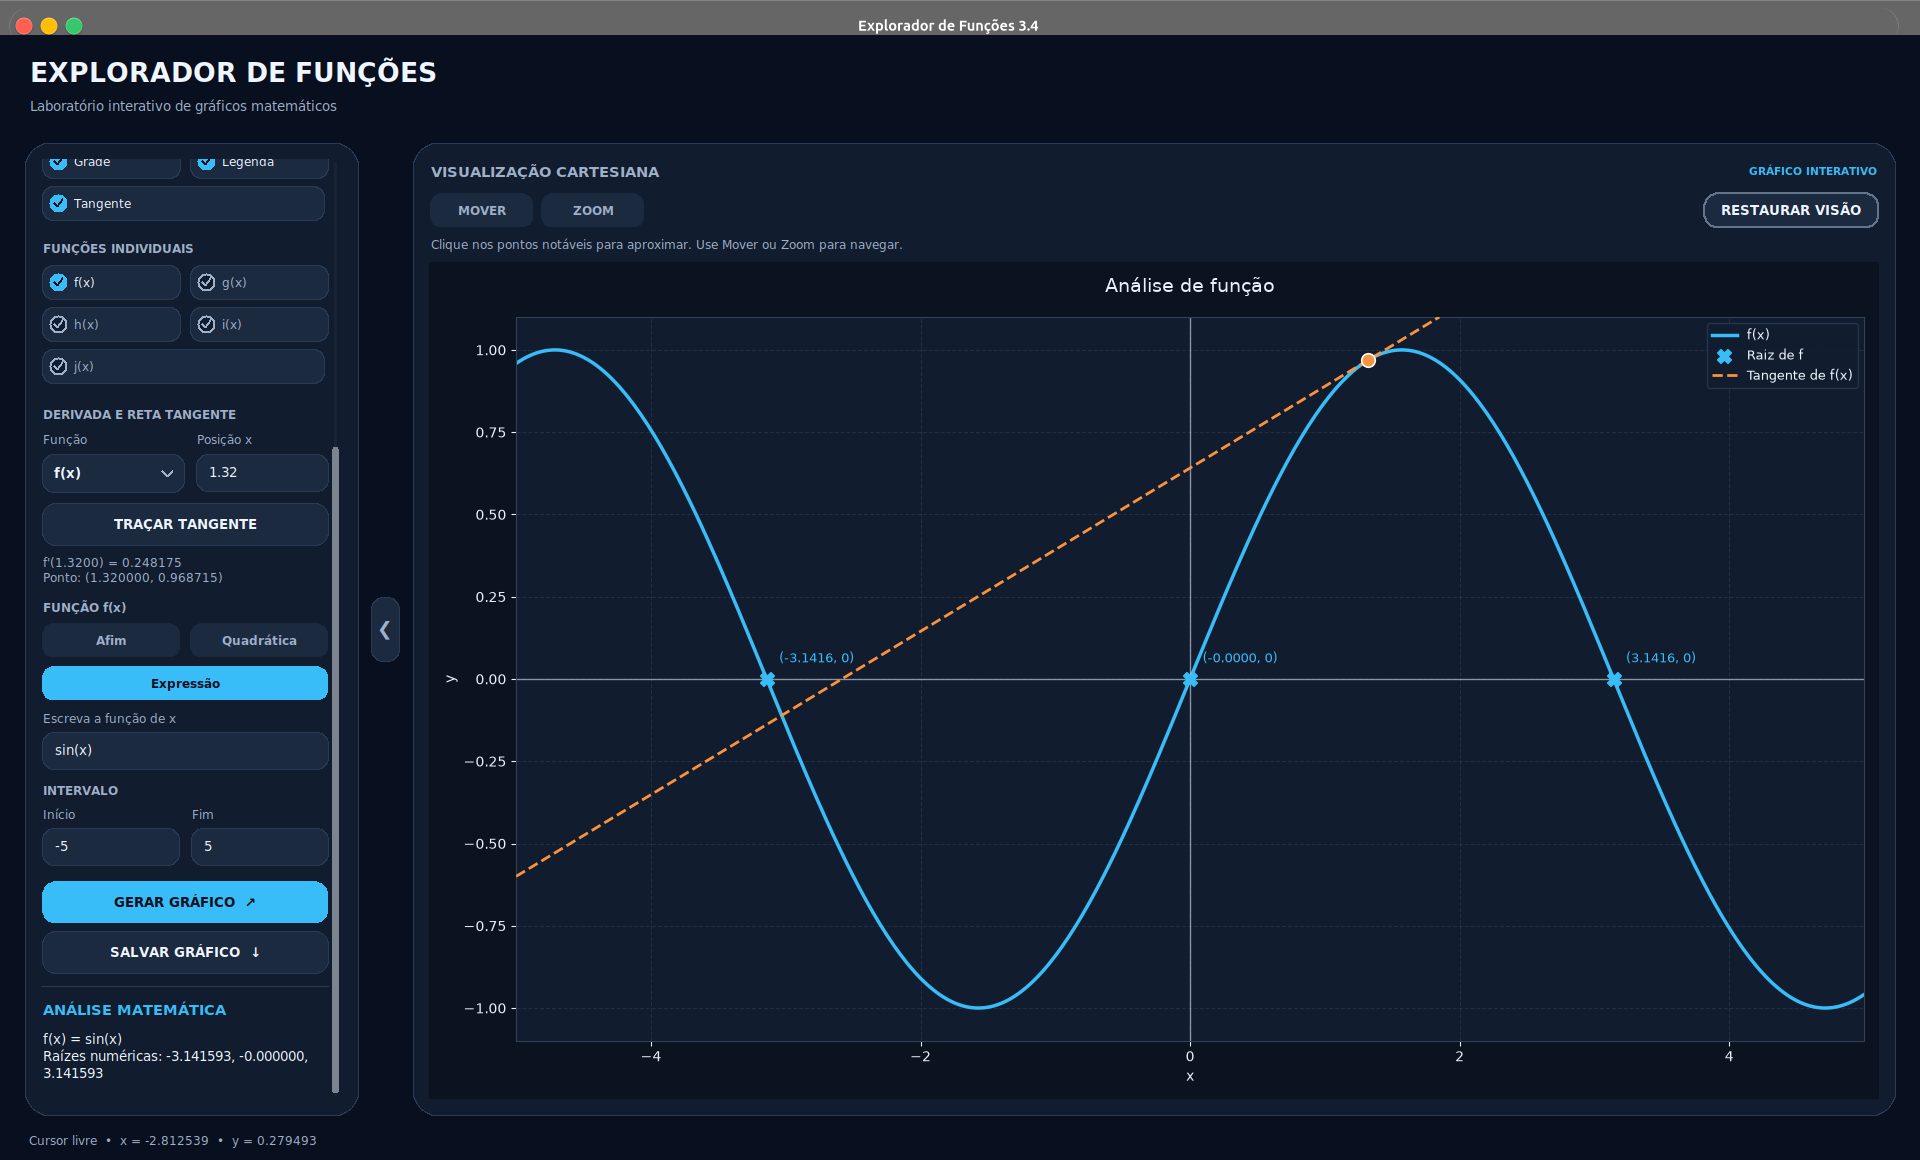
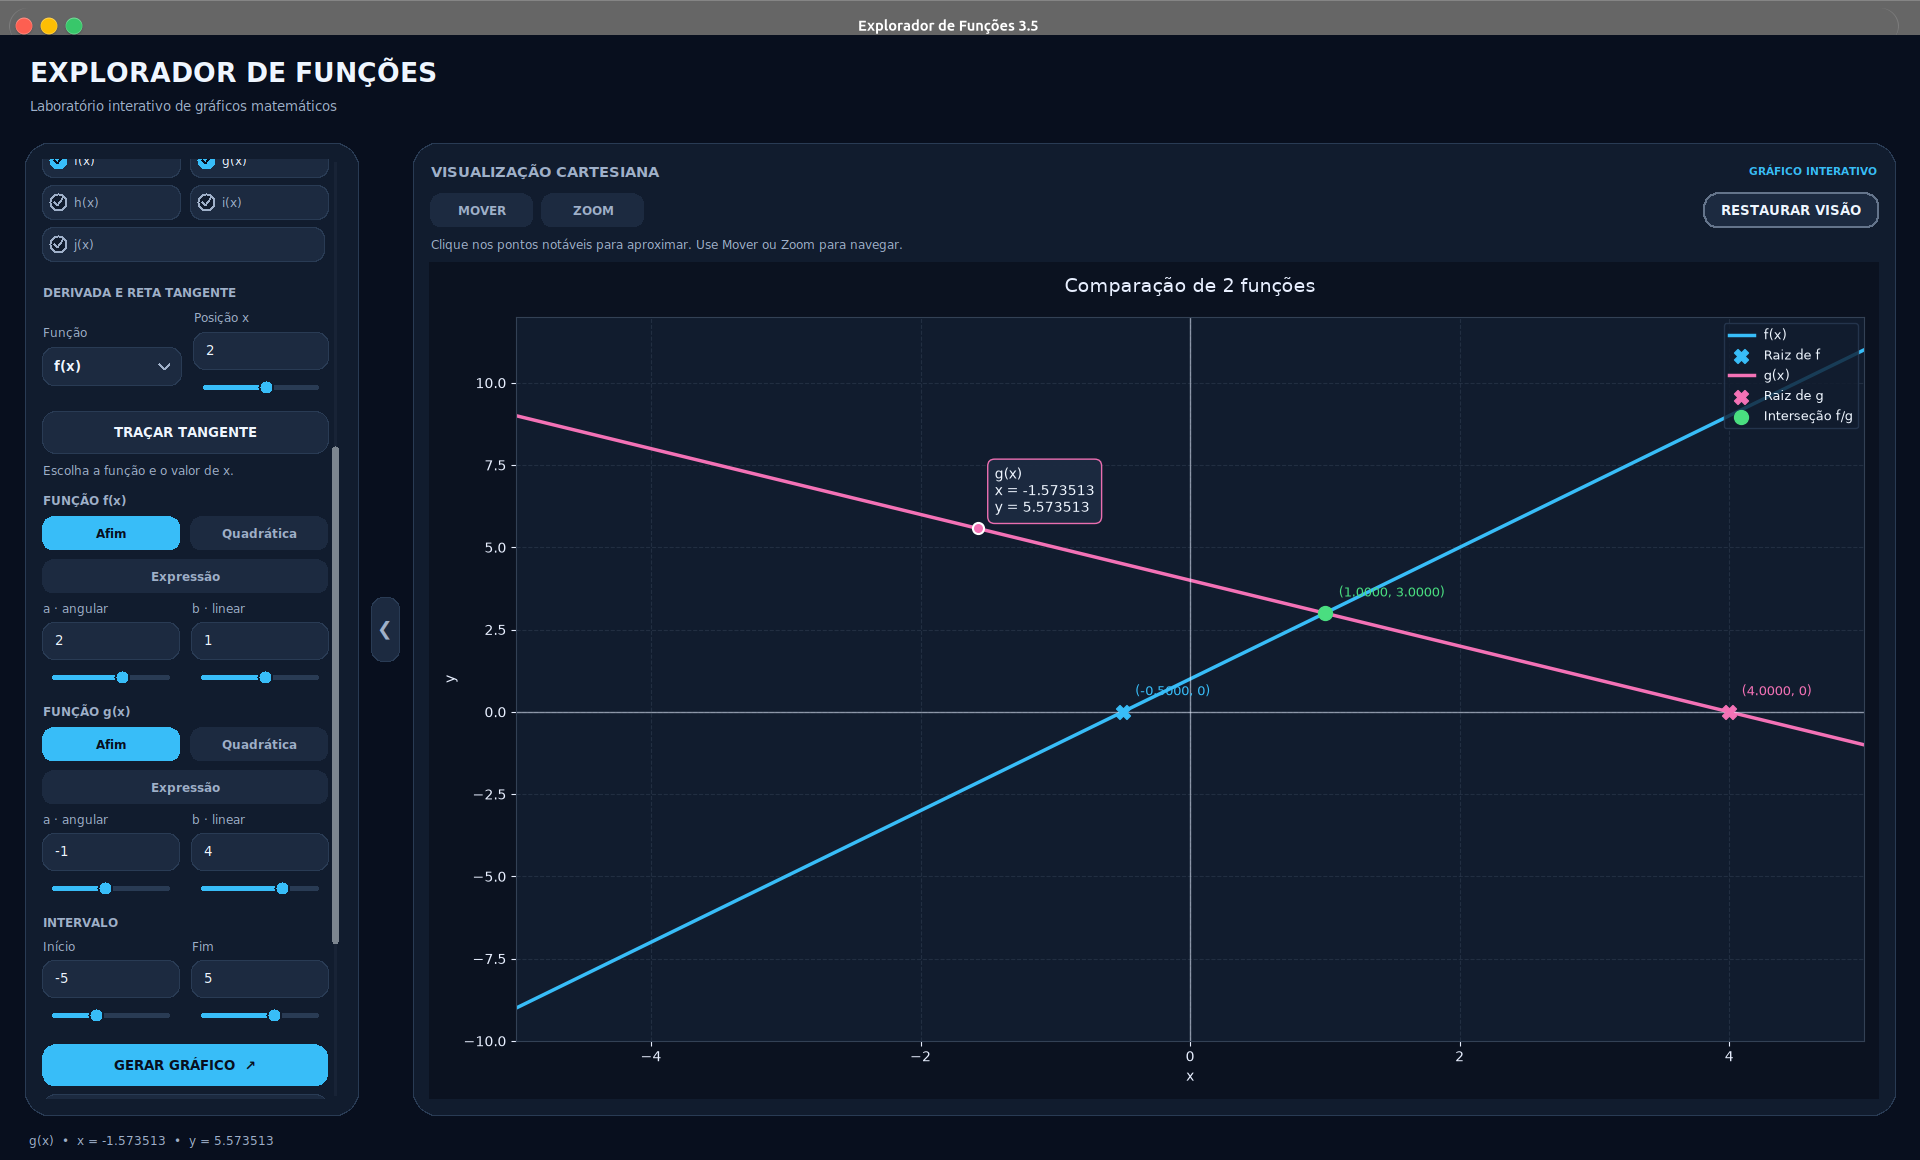
feat: adiciona sliders aos parametros

diff --git a/explorador-funcoes/interface.py b/explorador-funcoes/interface.py
@@ -124,8 +124,81 @@ class CampoArredondado(tk.Canvas):
     def get(self):
         return self.entrada.get()
 
+    def set(self, valor):
+        self.entrada.delete(0, "end")
+        self.entrada.insert(0, str(valor))
+
     def bind_enter(self, comando):
         self.entrada.bind("<Return>", lambda _evento: comando())
+
+
+class SliderArredondado(tk.Canvas):
+    def __init__(self, parent, valor, minimo, maximo, passo, comando):
+        super().__init__(
+            parent, height=28, width=110, bg=PAINEL,
+            highlightthickness=0, bd=0, cursor="hand2", takefocus=True,
+        )
+        self.valor = float(valor)
+        self.minimo = float(minimo)
+        self.maximo = float(maximo)
+        self.passo = float(passo)
+        self.comando = comando
+        self.bind("<Configure>", self.redesenhar)
+        self.bind("<Button-1>", self.arrastar)
+        self.bind("<B1-Motion>", self.arrastar)
+        self.bind("<Left>", lambda _evento: self.mover_passo(-1))
+        self.bind("<Right>", lambda _evento: self.mover_passo(1))
+        self.bind("<Home>", lambda _evento: self.definir(self.minimo, True))
+        self.bind("<End>", lambda _evento: self.definir(self.maximo, True))
+
+    def redesenhar(self, _evento=None):
+        self.delete("all")
+        largura = self.winfo_width()
+        if largura < 34:
+            return
+        esquerda, direita, centro = 13, largura - 13, 14
+        fracao = (self.valor - self.minimo) / (self.maximo - self.minimo)
+        x = esquerda + (direita - esquerda) * fracao
+        self.create_line(
+            esquerda, centro, direita, centro,
+            fill=BORDA, width=5, capstyle="round",
+        )
+        self.create_line(
+            esquerda, centro, x, centro,
+            fill=DESTAQUE, width=5, capstyle="round",
+        )
+        self.create_oval(
+            x - 7, centro - 7, x + 7, centro + 7,
+            fill=DESTAQUE, outline=PAINEL, width=2,
+        )
+
+    def definir(self, valor, notificar=False):
+        if not math.isfinite(float(valor)):
+            return
+        if valor < self.minimo or valor > self.maximo:
+            folga = max(1.0, abs(float(valor)))
+            self.minimo = min(self.minimo, -math.ceil(folga * 1.2))
+            self.maximo = max(self.maximo, math.ceil(folga * 1.2))
+        novo = max(self.minimo, min(self.maximo, round(float(valor) / self.passo) * self.passo))
+        novo = round(novo, 8)
+        if novo == self.valor:
+            return
+        self.valor = novo
+        self.redesenhar()
+        if notificar:
+            self.comando(novo)
+
+    def arrastar(self, evento):
+        self.focus_set()
+        largura = self.winfo_width()
+        if largura <= 26:
+            return
+        proporcao = max(0.0, min(1.0, (evento.x - 13) / (largura - 26)))
+        self.definir(self.minimo + proporcao * (self.maximo - self.minimo), True)
+
+    def mover_passo(self, direcao):
+        self.definir(self.valor + direcao * self.passo, True)
+        return "break"
 
 
 class BotaoArredondado(tk.Canvas):
@@ -835,7 +908,7 @@ class FocoPontosNotaveis:
 class ExploradorApp:
     def __init__(self, janela):
         self.janela = janela
-        self.janela.title("Explorador de Funções 3.4")
+        self.janela.title("Explorador de Funções 3.5")
         self.janela.geometry("1300x820")
         self.janela.minsize(1000, 670)
         self.janela.configure(bg=FUNDO)
@@ -847,6 +920,9 @@ class ExploradorApp:
         self.cursor_precisao = None
         self.foco_pontos = None
         self.campos = {}
+        self.sliders = {}
+        self.atualizacao_pendente = None
+        self.atualizacao_tangente_pendente = None
         self.quantidade_funcoes = 2
         self.primeira_intersecao = tk.StringVar(value="f")
         self.segunda_intersecao = tk.StringVar(value="g")
@@ -898,7 +974,58 @@ class ExploradorApp:
             entrada.bind_enter(self.gerar_grafico)
             self.campos[chave] = entrada
             self.rotulos[chave] = rotulo_widget
+            self.criar_slider_campo(coluna, chave, entrada, valor)
         return linha
+
+    def criar_slider_campo(self, parent, chave, entrada, valor):
+        eh_intervalo = chave in ("inicio", "fim")
+        minimo, maximo, passo = (-20, 20, 1) if eh_intervalo else (-10, 10, 0.1)
+        slider = SliderArredondado(
+            parent, float(valor), minimo, maximo, passo,
+            lambda numero, campo=entrada, nome=chave: self.ajustar_com_slider(
+                nome, campo, numero
+            ),
+        )
+        slider.pack(fill="x", pady=(3, 0))
+        self.sliders[chave] = slider
+        entrada.entrada.bind(
+            "<FocusOut>",
+            lambda _evento, nome=chave: self.sincronizar_slider(nome),
+            add="+",
+        )
+        entrada.entrada.bind(
+            "<Return>",
+            lambda _evento, nome=chave: self.sincronizar_slider(nome),
+            add="+",
+        )
+        return slider
+
+    def sincronizar_slider(self, chave):
+        try:
+            numero = float(self.campos[chave].get().replace(",", "."))
+            self.sliders[chave].definir(numero)
+        except (ValueError, OverflowError):
+            return
+
+    def ajustar_com_slider(self, chave, campo, valor):
+        campo.set(f"{valor:g}")
+        if self.atualizacao_pendente is not None:
+            self.janela.after_cancel(self.atualizacao_pendente)
+        self.atualizacao_pendente = self.janela.after(
+            200, self.atualizar_grafico_com_slider,
+        )
+
+    def atualizar_grafico_com_slider(self):
+        self.atualizacao_pendente = None
+        try:
+            inicio = int(self.campos["inicio"].get())
+            fim = int(self.campos["fim"].get())
+            if inicio >= fim:
+                self.status.set("Ajuste o intervalo: início deve ser menor que fim.")
+                return
+        except ValueError:
+            return
+        self.gerar_grafico(silencioso=True)
 
     def criar_grupo_funcao(self, parent, nome, valores):
         grupo = tk.Frame(parent, bg=PAINEL)
@@ -945,6 +1072,7 @@ class ExploradorApp:
         entrada_c.pack(fill="x")
         entrada_c.bind_enter(self.gerar_grafico)
         self.campos[f"c{nome}"] = entrada_c
+        self.criar_slider_campo(linha_c, f"c{nome}", entrada_c, c)
         self.campos_c[nome] = linha_c
         linha_expressao = tk.Frame(grupo, bg=PAINEL)
         self.texto(
@@ -1185,6 +1313,15 @@ class ExploradorApp:
         self.campo_tangente_x = CampoArredondado(coluna_x, "2")
         self.campo_tangente_x.pack(fill="x")
         self.campo_tangente_x.bind_enter(self.tracar_tangente)
+        self.slider_tangente = SliderArredondado(
+            coluna_x, 2, -20, 20, 0.1,
+            self.ajustar_tangente_slider,
+        )
+        self.slider_tangente.pack(fill="x", pady=(3, 0))
+        self.campo_tangente_x.entrada.bind(
+            "<FocusOut>", lambda _evento: self.sincronizar_tangente_slider(),
+            add="+",
+        )
         BotaoArredondado(
             grupo_tangente, "TRAÇAR TANGENTE", self.tracar_tangente,
             contorno=True,
@@ -1306,6 +1443,27 @@ class ExploradorApp:
         self.janela.update_idletasks()
         if self.canvas is not None:
             self.canvas.draw_idle()
+
+    def ajustar_tangente_slider(self, valor):
+        self.campo_tangente_x.set(f"{valor:g}")
+        if self.atualizacao_tangente_pendente is not None:
+            self.janela.after_cancel(self.atualizacao_tangente_pendente)
+        if self.tangente_ativa:
+            self.atualizacao_tangente_pendente = self.janela.after(
+                120, self.atualizar_tangente_com_slider,
+            )
+
+    def atualizar_tangente_com_slider(self):
+        self.atualizacao_tangente_pendente = None
+        if self.tangente_ativa:
+            self.tracar_tangente(silencioso=True)
+
+    def sincronizar_tangente_slider(self):
+        try:
+            valor = float(self.campo_tangente_x.get().replace(",", "."))
+            self.slider_tangente.definir(valor)
+        except (ValueError, OverflowError):
+            return
 
     def fechar_menus(self):
         for seletor in getattr(self, "seletores_intersecoes", ()):
@@ -1483,7 +1641,10 @@ class ExploradorApp:
             linhas.append(f"Vértice: ({numero(vx)}, {numero(vy)})")
         return "\n".join(linhas)
 
-    def gerar_grafico(self):
+    def gerar_grafico(self, silencioso=False):
+        if self.atualizacao_pendente is not None:
+            self.janela.after_cancel(self.atualizacao_pendente)
+            self.atualizacao_pendente = None
         try:
             funcoes = [
                 (nome, self.obter_polinomio(nome)) for nome in self.nomes_ativos
@@ -1530,7 +1691,10 @@ class ExploradorApp:
             )
 
         except (ValueError, OverflowError, ZeroDivisionError) as erro:
-            messagebox.showerror("Entrada inválida", str(erro))
+            if silencioso:
+                self.status.set(f"Ajuste os valores: {erro}")
+            else:
+                messagebox.showerror("Entrada inválida", str(erro))
             return
 
         descricoes = [

diff --git a/README.md b/README.md
@@ -14,7 +14,7 @@ O **Explorador de Funções** é uma ferramenta educacional que integra programa
 
 - Visualização de até **cinco funções** simultaneamente.
 - Suporte a funções **afins, quadráticas e expressões matemáticas**.
-- Adição e remoção dinâmica de funções.
+- Adição e remoção de funções, com **sliders para coeficientes, intervalo e tangente**.
 - Cálculo de raízes, vértices, discriminante e interseções.
 - **Raízes numéricas de expressões não polinomiais**, destacadas no gráfico.
 - Interseções numéricas entre diferentes tipos de funções.
